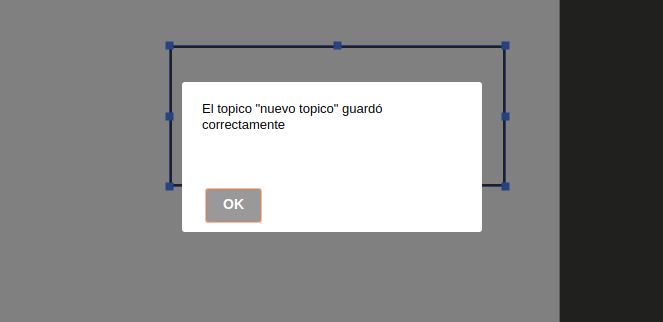
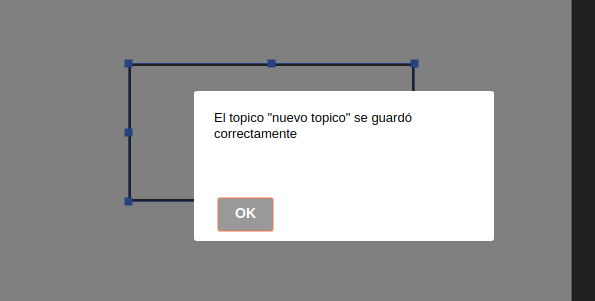
Correccion menor de tipeado

Changed region(s): [[0.2118, 0.0, 0.9681, 1.0]]

diff --git a/editor/src/method-draw.js b/editor/src/method-draw.js
@@ -3583,7 +3583,7 @@
       $('#topic_save_button').on('click', function () {
         var topicValue = $('#topic_input').val();
         svgCanvas.setTopic(topicValue);
-        $.alert('El topico "' + topicValue + '" guardó correctamente');
+        $.alert('El topico "' + topicValue + '" se guardó correctamente');
       });
 
       window.onbeforeunload = function () {

diff --git a/readme.md b/readme.md
@@ -23,7 +23,7 @@ make release
 
 ## Consigna
 
-La consigna a resolver es:
+La consigna a resolver es la siguiente:
 
 ```
 En base a un editor de SVG basado en HTML y EcmaScript deberá agregar la capacidad de definir atributos del tipo tópico.
